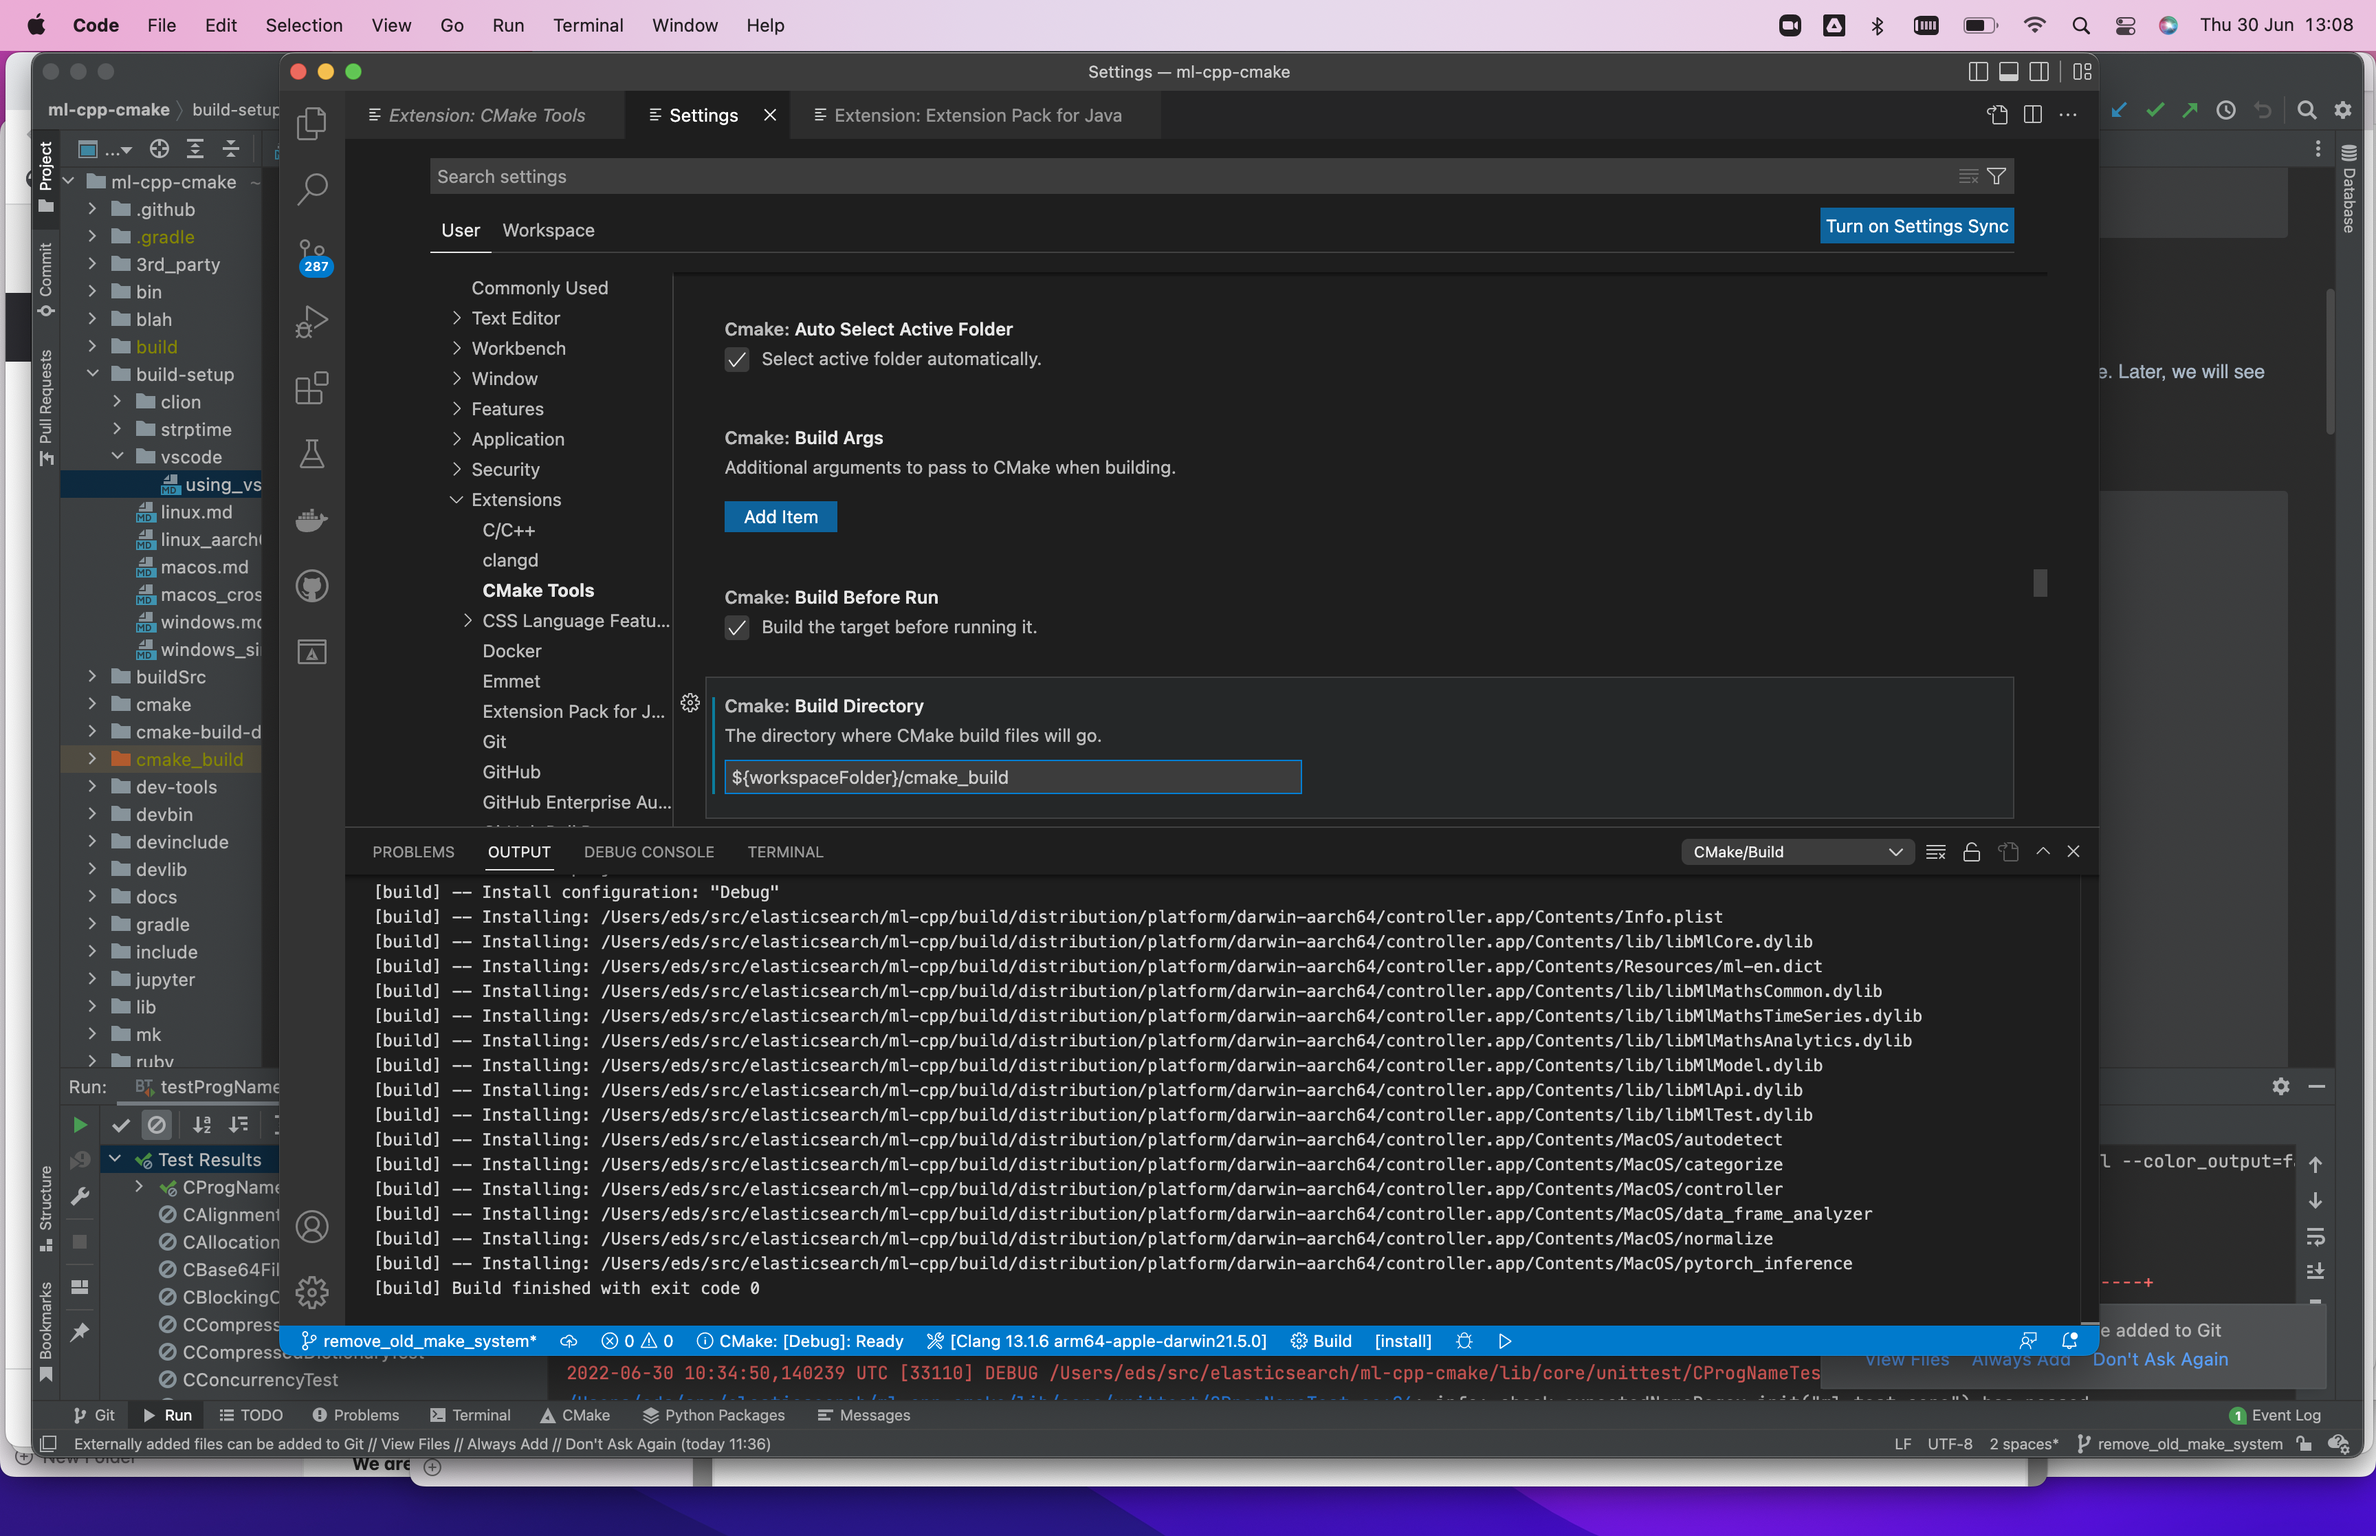
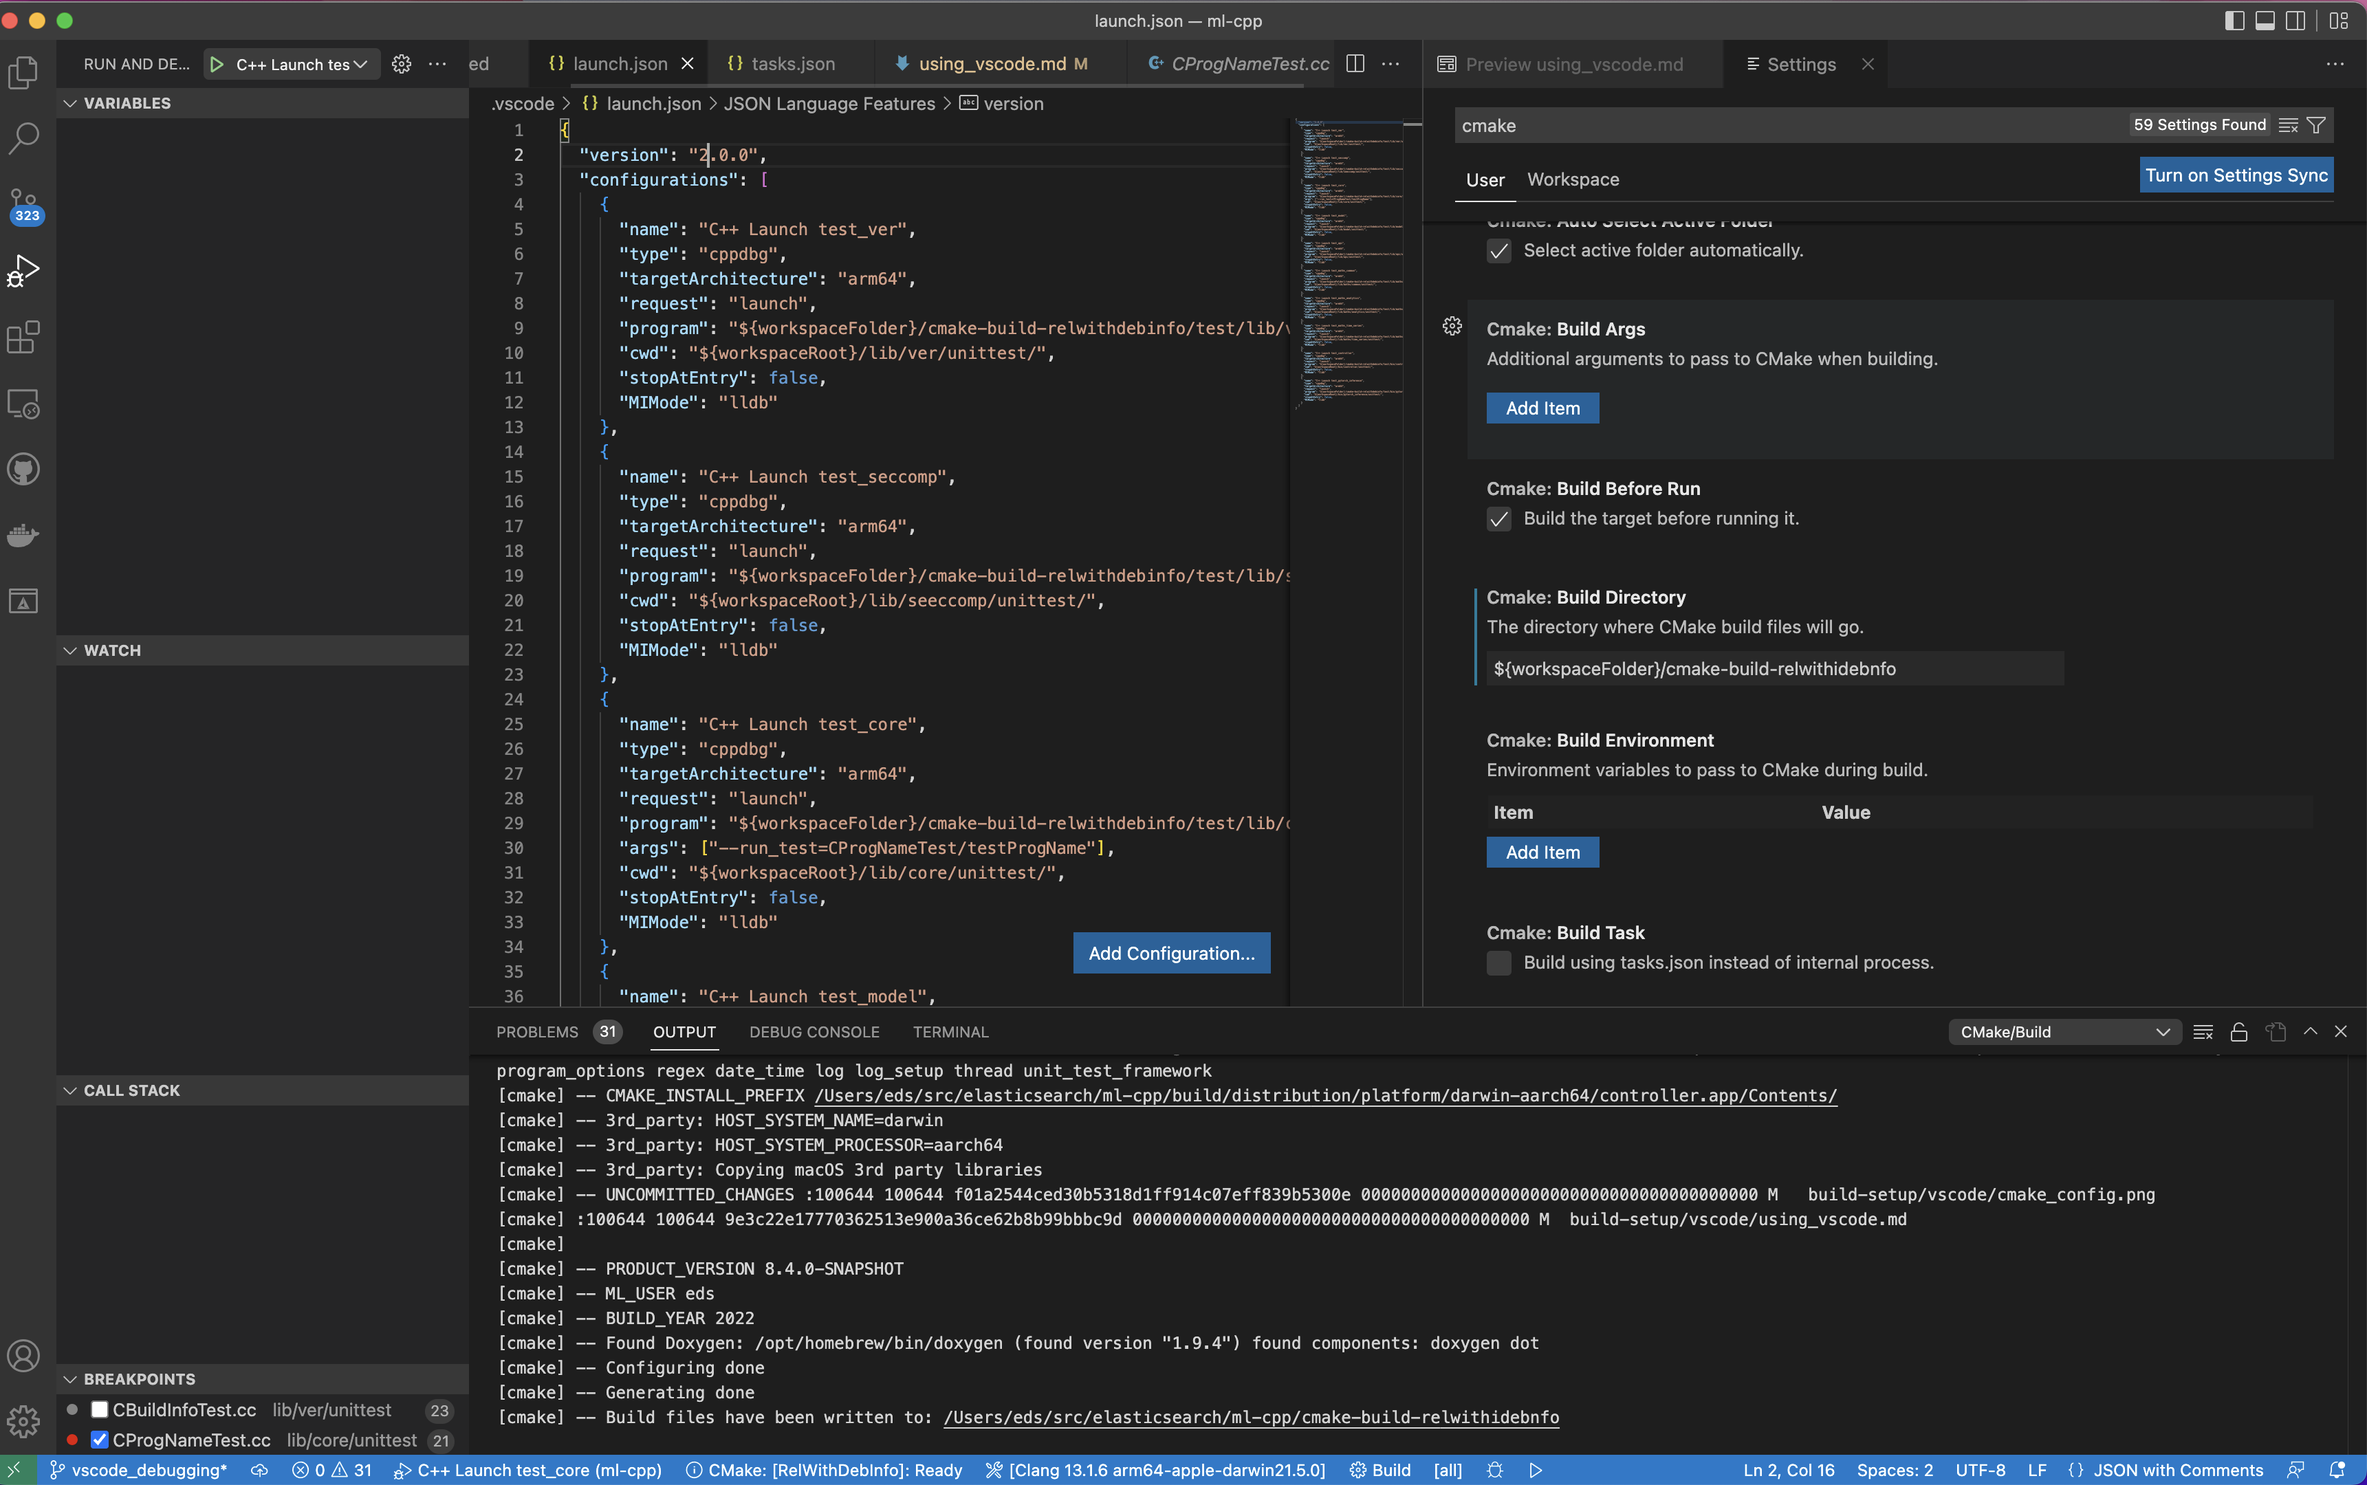
[ML] Guide to debugging with Visual Studio Code
Give more detailed instructions on integration with Visual Studio Code's
debugging framework.

diff --git a/build-setup/vscode/using_vscode.md b/build-setup/vscode/using_vscode.md
@@ -28,41 +28,196 @@ button and add the variable definition. The other settings can be left as-is.
 
 ![CMake Config](./cmake_config.png)
 
-## Build/Debug
-
-The `CMake` plugins make `VSCode` aware of all the defined `CMake` targets with no extra configuration required.
-To run e.g. a test case under the debugger, click on the button to select the default build target
-in the side panel at the bottom of the editor window 
-![Debug Test](./debug_test_case.png)
-and select the desired test case. e.g. `test_ver` from the drop-down list, you may also need to change the selected
-target to launch - `ml_test_ver` in this example.
-
-See [Target Debugging and Launching](https://vector-of-bool.github.io/docs/vscode-cmake-tools/debugging.html) for
-more details of debugging with the `CMake Tools` extension for `VSCode`. 
-
 ## User tasks
 
 You can use [user tasks](https://code.visualstudio.com/docs/editor/tasks) to integrate VS Code with external tools. For
-example, re-format the project using a the docker container with correct clang-format version.
+example, re-format the project using a the docker container with correct clang-format version or build just certain parts of
+the project.
 
 Here is an example of user tasks specified in `tasks.json`:
 
 ```json
 {
-    "version": "2.0.0",
-    "tasks": [
-        {
-            "label": "Format code",
-            "type": "shell",
-            "command": "cd ${workspaceFolder} && dev-tools/docker/run_docker_clang_format.sh",
-            "problemMatcher": [],
-            "options": {
-                "env": {
-                    "PATH": "${env:PATH}",
-                    "CPP_SRC_HOME": "${workspaceFolder}"
-                }
-            }             
-        }
-    ]
+	"version": "2.0.0",
+	"tasks": [
+		{
+			"label": "CMake relwithdebinfo build",
+			"type": "shell",
+			"command": "cmake --build ${workspaceFolder}/cmake-build-relwithdebinfo -t install -v -j 10",
+			"problemMatcher": [],
+			"options": {
+				"env": {
+					"PATH": "${env:PATH}",
+					"CPP_SRC_HOME": "${workspaceFolder}"
+				}
+			}
+		},
+		{
+			"label": "CMake build relwithdebinfo tests",
+			"dependsOn": [
+				"CMake relwithdebinfo build"
+			],
+			"type": "shell",
+			"command": "cmake --build ${workspaceFolder}/cmake-build-relwithdebinfo -t build_tests -v -j 10",
+			"problemMatcher": [],
+			"options": {
+				"env": {
+					"PATH": "${env:PATH}",
+					"CPP_SRC_HOME": "${workspaceFolder}"
+				}
+			},
+			"group": {
+				"kind": "build",
+				"isDefault": true
+			}
+		},
+		{
+			"label": "CMake build relwithdebinfo test_core",
+			"dependsOn": [
+				"CMake relwithdebinfo build"
+			],
+			"type": "shell",
+			"command": "cmake --build ${workspaceFolder}/cmake-build-relwithdebinfo -t ml_test_core -v -j 10",
+			"problemMatcher": [],
+			"options": {
+				"env": {
+					"PATH": "${env:PATH}",
+					"CPP_SRC_HOME": "${workspaceFolder}"
+				}
+			},
+			"group": {
+				"kind": "build",
+				"isDefault": true
+			}
+		}
+	]
 }
 ```
+
+## Debugging
+
+To use [debugging](https://code.visualstudio.com/docs/editor/debugging), you need to specify the binary and the
+arguments in a json file. You can use `preLaunchTask` to specify the user tasks that should be executed before the start
+(e.g. building project).
+
+Here is an example of the `launch.json` file. Please update the fields for `targetArchitecture` and `MIMode` to values appropriate for your development platform.
+
+```json
+{
+  "configurations": [
+    {
+      "name": "C++ Launch test_ver",
+      "type": "cppdbg",
+      "targetArchitecture": "arm64",
+      "request": "launch",
+      "program": "${workspaceFolder}/cmake-build-relwithdebinfo/test/lib/ver/unittest/ml_test_ver",
+      "cwd": "${workspaceRoot}/lib/ver/unittest/",
+      "stopAtEntry": false,
+      "MIMode": "lldb"
+    },
+    {
+      "name": "C++ Launch test_seccomp",
+      "type": "cppdbg",
+      "targetArchitecture": "arm64",
+      "request": "launch",
+      "program": "${workspaceFolder}/cmake-build-relwithdebinfo/test/lib/seccomp/unittest/ml_test_seccomp",
+      "cwd": "${workspaceRoot}/lib/seeccomp/unittest/",
+      "stopAtEntry": false,
+      "MIMode": "lldb"
+    },
+    {
+      "name": "C++ Launch test_core",
+      "type": "cppdbg",
+      "targetArchitecture": "arm64",
+      "request": "launch",
+      "program": "${workspaceFolder}/cmake-build-relwithdebinfo/test/lib/core/unittest/ml_test_core",
+      "args": ["--run_test=CProgNameTest/testProgName"],
+      "cwd": "${workspaceRoot}/lib/core/unittest/",
+      "stopAtEntry": false,
+      "MIMode": "lldb"
+    },
+    {
+      "name": "C++ Launch test_model",
+      "type": "cppdbg",
+      "targetArchitecture": "arm64",
+      "request": "launch",
+      "program": "${workspaceFolder}/cmake-build-relwithdebinfo/test/lib/model/unittest/ml_test_model",
+      "cwd": "${workspaceRoot}/lib/model/unittest/",
+      "stopAtEntry": false,
+      "MIMode": "lldb"
+    },
+    {
+      "name": "C++ Launch test_api",
+      "type": "cppdbg",
+      "targetArchitecture": "arm64",
+      "request": "launch",
+      "program": "${workspaceFolder}/cmake-build-relwithdebinfo/test/lib/api/unittest/ml_test_api",
+      "cwd": "${workspaceRoot}/lib/api/unittest/",
+      "stopAtEntry": false,
+      "MIMode": "lldb"
+    },
+    {
+      "name": "C++ Launch test_maths_common",
+      "type": "cppdbg",
+      "targetArchitecture": "arm64",
+      "request": "launch",
+      "program": "${workspaceFolder}/cmake-build-relwithdebinfo/test/lib/maths/common/unittest/ml_test_maths_common",
+      "cwd": "${workspaceRoot}/lib/maths/common/unittest/",
+      "stopAtEntry": false,
+      "MIMode": "lldb"
+    },
+    {
+      "name": "C++ Launch test_maths_analytics",
+      "type": "cppdbg",
+      "targetArchitecture": "arm64",
+      "request": "launch",
+      "program": "${workspaceFolder}/cmake-build-relwithdebinfo/test/lib/maths/analytics/unittest/ml_test_maths_analytics",
+      "cwd": "${workspaceRoot}/lib/maths/analytics/unittest/",
+      "stopAtEntry": false,
+      "MIMode": "lldb"
+    },
+    {
+      "name": "C++ Launch test_maths_time_series",
+      "type": "cppdbg",
+      "targetArchitecture": "arm64",
+      "request": "launch",
+      "program": "${workspaceFolder}/cmake-build-relwithdebinfo/test/lib/maths/time_series/unittest/ml_test_maths_time_series",
+      "cwd": "${workspaceRoot}/lib/maths/time_series/unittest/",
+      "stopAtEntry": false,
+      "MIMode": "lldb"
+    },
+    {
+      "name": "C++ Launch test_controller",
+      "type": "cppdbg",
+      "targetArchitecture": "arm64",
+      "request": "launch",
+      "program": "${workspaceFolder}/cmake-build-relwithdebinfo/test/bin/controller/unittest/ml_test_controller",
+      "cwd": "${workspaceRoot}/bin/controller/unittest/",
+      "stopAtEntry": false,
+      "MIMode": "lldb"
+    },
+    {
+      "name": "C++ Launch test_pytorch_inference",
+      "type": "cppdbg",
+      "targetArchitecture": "arm64",
+      "request": "launch",
+      "program": "${workspaceFolder}/cmake-build-relwithdebinfo/test/bin/pytorch_inference/unittest/ml_test_pytorch_inference",
+      "cwd": "${workspaceRoot}/bin/pytorch_inference/unittest/",
+      "stopAtEntry": false,
+      "MIMode": "lldb"
+    }
+  ]
+}
+```
+
+To run testsuites for a specific library click on the `Run and Debug` tab in the left handle panel and then select the desired `C++ launch` target from dropdown at the top of the `Run and Debug` panel, e.g.
+![Run and Debug](debug_test_case.png)
+
+
+To run a specific unit test add the test class/test name in the `args` field:
+```json
+            "args": [
+                "--run_test=CProgNameTest/testProgName"
+            ],
+```
+
